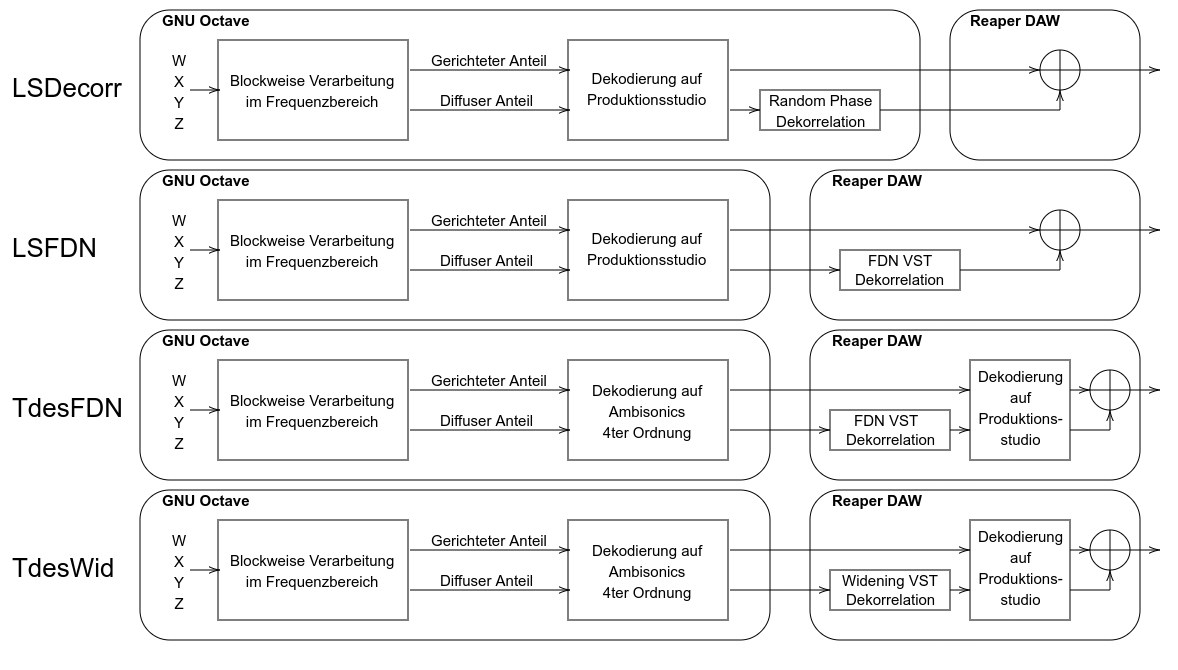
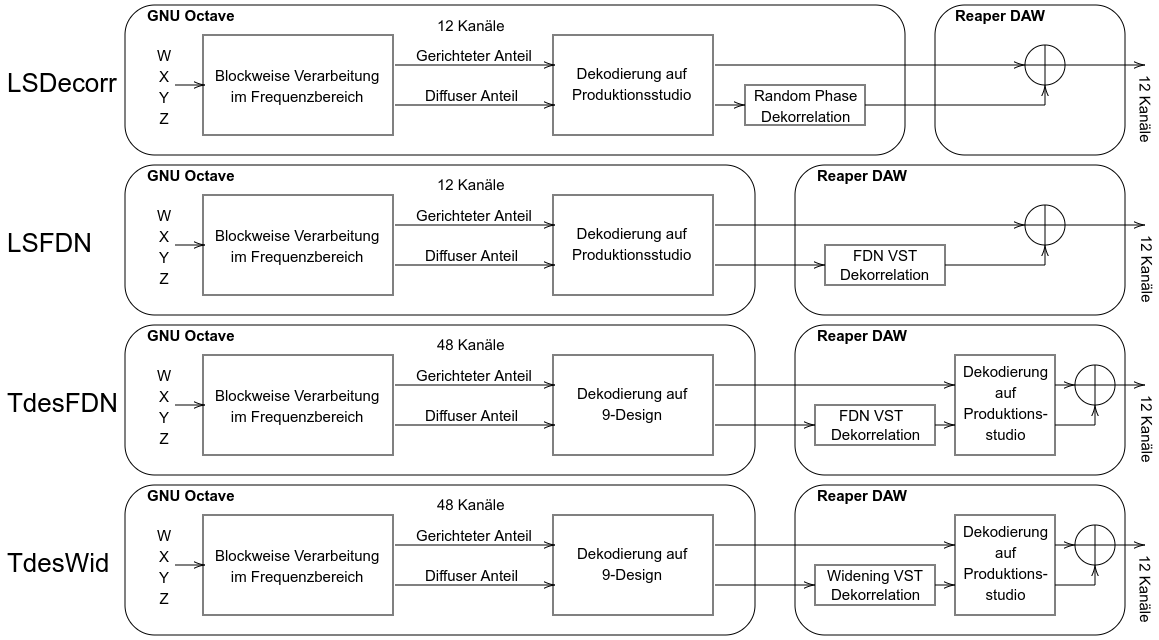
implementierung

Changed region(s): [[0.0, 0.0, 0.994, 0.9688]]

diff --git a/implementierung/trennung.tex b/implementierung/trennung.tex
@@ -2,6 +2,10 @@
 
 %Nach der Berechnung des gerichteten Signalanteils kann auch der Diffusanteil aus dem omnidirektionalen Signal erzeugt werden. Dieser entspricht lediglich dem nicht-gerichteten Anteil des omnidirektionalen Signals und wird daher aus der Filterkurve des Direktanteils bestimmt. Somit ergeben sich an dieser Stelle zwei frequenzabhängige Signalmatrizen für Diffus- und Richtungsanteil. Beide Matrizen besitzen eine Spalte für jeden Lautsprecherkanal und die Zeilenzahl entspricht der FFT-Länge.
 
-Die Trennung von Diffus- und Richtungsanteil erfolgt ebenfalls im Frequenzbereich. Der frequenzabhängige Diffusitätsvektor wird hier verwendet, um den gerichteten Anteil aus den dekodierten Signalen (mit 12 oder 48 Kanälen) zu filtern. Prinzipiell wird für den gerichteten Anteil ein spektraler Block mit zwei Matrizen multipliziert: Erstens mit dem frequenzabhängigen Diffusitätsvektor, und weiters mit der VBAP-Tabelle. Dadurch soll eine Schärfung der Richtungszuordnung erreicht werden. Dies ist möglich, weil bei der Analyse der Diffusität weiters auch die Einfallsrichtung frequenzabhängig festgehalten wird. Somit werden Frequenzbins mit frequenzabhängigen Diffusitätswerten gewichtetet, und diese anschließend durch VBAP auf entsprechende Lautsprecherdreiecke aufgeteilt.
+Die Trennung von Diffus- und Richtungsanteil erfolgt ebenfalls im Frequenzbereich. Dazu werden zwei Filter aus den frequenzabhängigen Diffusitätswerten erzeugt. Der Diffusanteil entspricht dem nicht-gerichteten Anteil der Signale.
 
-Nach der Berechnung des gerichteten Signalanteils kann auch der Diffusanteil aus den dekodierten Signalen erzeugt werden. Dieser entspricht dem nicht-gerichteten Anteil und wird daher aus der Filterkurve des Direktanteils bestimmt. Somit ergeben sich an dieser Stelle zwei frequenzabhängige Signalmatrizen für Diffus- und Richtungsanteil für jedes zeitliche Verarbeitungsfenster. Beide Matrizen besitzen eine Spalte für jeden Wiedergabekanal und die Zeilenzahl entspricht der FFT-Länge.
+Weiters wird ein VBAP-Verfahren auf den gerichteten Signalanteil angewandt. Dies ist möglich, weil bei der Analyse der Diffusität auch die Einfallsrichtung frequenzabhängig festgehalten wird.
+
+Somit werden Frequenzbins mit frequenzabhängigen Diffusitätswerten gewichtetet, und anschließend durch VBAP entsprechenden Lautsprecherdreiecken zugeordnet.
+
+Es ergeben sich an dieser Stelle zwei Signalmatrizen für Diffus- und Richtungsanteil im Frequenzbereich. Beide Matrizen besitzen eine Spalte für jeden Wiedergabekanal und die Zeilenzahl entspricht der FFT-Länge.

diff --git a/implementierung/main.tex b/implementierung/main.tex
@@ -3,7 +3,7 @@ In diesem Abschnitt wird beschrieben, wie der DirAC-Algorithmus in diesem Projek
 \paragraph{Initialisierung}
 Zu Beginn des Skriptes wird das Eingangssignal im B-Format erster Ordnung eingelesen. Dieses muss als \textit{.wav}-Datei vorliegen und genau vier Kanäle (in der Reihenfolge $w$, $x$, $y$, $z$) umfassen. Die Samplerate wird direkt aus dieser Datei ermittelt und als Variable \textit{fs} im Workspace von GNU Octave gespeichert.
 
-Anschließend wird eine Liste von Lautsprecherpositionen eingelesen. Dabei handelt es sich entweder um die Lautsprecheranordnung des Wiedergabesystems (z.B. 12 Lautsprecher im Produktionsstudio des IEM Graz), oder um eine allgemeine t-Design Anordnung (in diesem Fall 48 Punkte für ein 9-Design). Die Koordinaten werden in sphärische Richtungen umgerechnet und daraus eine dreidimensionale VBAP-Matrix berechnet. Die Anzahl der Spalten dieser Matrix entspricht der Anzahl der eingelesenen Positionen (12 oder 48). Die Zeilenanzahl ist abhängig von der gewählten Richtungsauflösung (= $1^{\circ}$). Diese Matrix dient dazu, gerichtete Audiosignale auf die Ausgabekanäle (physische Lautsprecheranordnung oder allgemeines t-Design) abzubilden.
+Anschließend wird eine Liste von Lautsprecherpositionen eingelesen. Dabei handelt es sich entweder um die Lautsprecheranordnung des Wiedergabesystems (z.B. 12 Lautsprecher im Produktionsstudio des IEM Graz), oder um eine allgemeine t-Design Anordnung (in diesem Fall 48 Punkte für ein 9-Design). Die Koordinaten werden in sphärische Richtungen umgerechnet und daraus eine VBAP-Matrix berechnet. Die Anzahl der Spalten dieser Matrix entspricht der Anzahl der eingelesenen Positionen (12 oder 48). Die Zeilenanzahl ist abhängig von der gewählten Richtungsauflösung (= $1^{\circ}$). %Diese Matrix dient dazu, gerichtete Audiosignale auf die Ausgabekanäle (physische Lautsprecheranordnung oder allgemeines t-Design) abzubilden.
 
 Im nächsten Schritt wird eine Sampling-Dekodermatrix \cite{ambi-book} aus den Lautsprecherrichtungen erzeugt, um die vier Eingangskanäle $w[n]$, $x[n]$, $y[n]$ und $z[n]$ des B-Format-Signals erster Ordnung auf eine Lautsprecheranordnung (12 oder 48 Kanäle) dekodieren zu können.
 Dieser Vorgang lässt sich verbildlichen, als würden die Lautsprechersignale mit virtuellen Mikrofonen in Lautsprecherrichtung abgenommen werden. Dabei wird hier eine Supernieren-Richtcharakteristik für die virtuellen Mikrofone eingesetzt.
